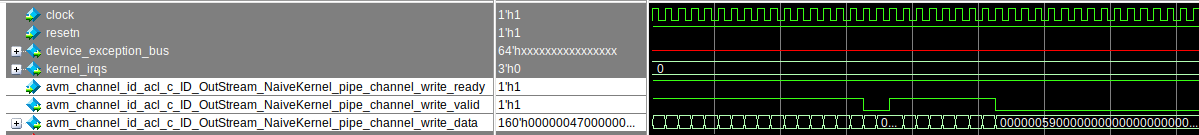
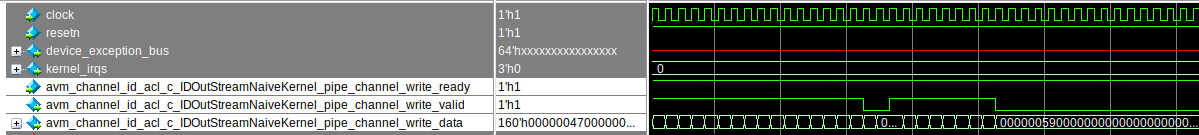
Resolve comments.

Changed region(s): [[0.1543, 0.8593, 0.4012, 0.9778], [0.1543, 0.5926, 0.4012, 0.7111], [0.1543, 0.7407, 0.4012, 0.8296]]

diff --git a/DirectProgramming/C++SYCL_FPGA/Tutorials/DesignPatterns/banked_memory_system/src/main.cpp b/DirectProgramming/C++SYCL_FPGA/Tutorials/DesignPatterns/banked_memory_system/src/main.cpp
@@ -5,18 +5,18 @@
 #include "memory_system_kernels.hpp"
 
 // Forward declaration of kernel names.
-class ID_NaiveKernel;
-class ID_OptimizedKernel;
+class IDNaiveKernel;
+class IDOptimizedKernel;
 
 // Function that verifies the output from example kernels.
 bool CheckOutput(sycl::queue &q) {
-  SimpleOutputT resultNaive;
-  SimpleOutputT resultOptimized;
+  SimpleOutputT result_naive;
+  SimpleOutputT result_optimized;
   bool passed = true;
   for (int i = 0; i < 500; ++i) {
-    resultNaive = OutStream_NaiveKernel::read(q);
-    resultOptimized = OutStream_OptKernel::read(q);
-    if (resultNaive[4] != i || resultOptimized[4] != i) {
+    result_naive = OutStreamNaiveKernel::read(q);
+    result_optimized = OutStreamOptKernel::read(q);
+    if (result_naive[4] != i || result_optimized[4] != i) {
       passed = false;
     }
   }
@@ -38,15 +38,15 @@ int main() {
     // Test for simple kernels.
     q.single_task<class Input>([=]() {
       for (int i = 0; i < 500; ++i) {
-        InStream_NaiveKernel::write(i);
-        InStream_OptKernel::write(i);
+        InStreamNaiveKernel::write(i);
+        InStreamOptKernel::write(i);
       }
     });
 
     std::cout << "Launch kernel" << std::endl;
 
-    q.single_task<ID_NaiveKernel>(NaiveKernel{});
-    q.single_task<ID_OptimizedKernel>(OptimizedKernel{});
+    q.single_task<IDNaiveKernel>(NaiveKernel{});
+    q.single_task<IDOptimizedKernel>(OptimizedKernel{});
 
     std::cout << "Checking output" << std::endl;
     bool passed = CheckOutput(q);
@@ -55,6 +55,7 @@ int main() {
       std::cout << "Verification PASSED.\n";
     } else {
       std::cout << "Verification FAILED.\n";
+      return 1;
     }
   }
   catch (sycl::exception const &e) {
@@ -62,4 +63,5 @@ int main() {
               << std::endl;
     std::terminate();
   }
+  return 0;
 }

diff --git a/DirectProgramming/C++SYCL_FPGA/Tutorials/DesignPatterns/banked_memory_system/src/memory_system_defines.hpp b/DirectProgramming/C++SYCL_FPGA/Tutorials/DesignPatterns/banked_memory_system/src/memory_system_defines.hpp
@@ -29,21 +29,21 @@ using PipePropertiesT = decltype(sycl::ext::oneapi::experimental::properties(
     sycl::ext::intel::experimental::first_symbol_in_high_order_bits<true>));
 
 // Interfaces for the illustrative simple kernels.
-class ID_InStream_NaiveKernel;
-using InStream_NaiveKernel =
-    sycl::ext::intel::experimental::pipe<ID_InStream_NaiveKernel, SimpleInputT, 0,
+class IDInStreamNaiveKernel;
+using InStreamNaiveKernel =
+    sycl::ext::intel::experimental::pipe<IDInStreamNaiveKernel, SimpleInputT, 0,
                                          PipePropertiesT>;
 
-class ID_OutStream_NaiveKernel;
-using OutStream_NaiveKernel =
-    sycl::ext::intel::experimental::pipe<ID_OutStream_NaiveKernel, SimpleOutputT, 0,
+class IDOutStreamNaiveKernel;
+using OutStreamNaiveKernel =
+    sycl::ext::intel::experimental::pipe<IDOutStreamNaiveKernel, SimpleOutputT, 0,
                                          PipePropertiesT>;
 
-class ID_InStream_OptKernel;
-using InStream_OptKernel =
-    sycl::ext::intel::experimental::pipe<ID_InStream_OptKernel, SimpleInputT, 0,
+class IDInStreamOptKernel;
+using InStreamOptKernel =
+    sycl::ext::intel::experimental::pipe<IDInStreamOptKernel, SimpleInputT, 0,
                                          PipePropertiesT>;
-class ID_OutStream_OptKernel;
-using OutStream_OptKernel =
-    sycl::ext::intel::experimental::pipe<ID_OutStream_OptKernel, SimpleOutputT, 0,
+class IDOutStreamOptKernel;
+using OutStreamOptKernel =
+    sycl::ext::intel::experimental::pipe<IDOutStreamOptKernel, SimpleOutputT, 0,
                                          PipePropertiesT>;

diff --git a/DirectProgramming/C++SYCL_FPGA/Tutorials/DesignPatterns/banked_memory_system/src/memory_system_kernels.hpp b/DirectProgramming/C++SYCL_FPGA/Tutorials/DesignPatterns/banked_memory_system/src/memory_system_kernels.hpp
@@ -9,7 +9,7 @@ struct NaiveKernel {
 
     [[intel::initiation_interval(1)]]
     for (int col = 0; col < kNumCols; ++col) {
-      SimpleInputT input = InStream_NaiveKernel::read();
+      SimpleInputT input = InStreamNaiveKernel::read();
       SimpleOutputT output;
 
       #pragma unroll
@@ -23,7 +23,7 @@ struct NaiveKernel {
         output[row] = array2d[row][col];
       }
       
-      OutStream_NaiveKernel::write(output);
+      OutStreamNaiveKernel::write(output);
     }
   }
 };
@@ -38,7 +38,7 @@ struct OptimizedKernel {
 
     [[intel::initiation_interval(1)]]
     for (int row = 0; row < kNumRowsOptimized; ++row) {
-      SimpleInputT input = InStream_OptKernel::read();
+      SimpleInputT input = InStreamOptKernel::read();
       SimpleOutputT output;
 
       #pragma unroll
@@ -52,7 +52,7 @@ struct OptimizedKernel {
         output[col] = array2d[row][col];
       }
       
-      OutStream_OptKernel::write(output);
+      OutStreamOptKernel::write(output);
     }
   }
 };

diff --git a/DirectProgramming/C++SYCL_FPGA/Tutorials/DesignPatterns/banked_memory_system/README.md b/DirectProgramming/C++SYCL_FPGA/Tutorials/DesignPatterns/banked_memory_system/README.md
@@ -64,7 +64,7 @@ struct NaiveKernel {
     int array2d[kNumRows][kNumCols];
     [[intel::initiation_interval(1)]]
     for (int col = 0; col < kNumCols; ++col) {
-      SimpleInputT input = InStream_NaiveKernel::read();
+      SimpleInputT input = InStreamNaiveKernel::read();
       SimpleOutputT output;
 
       // Shift one new item into the FIFO.
@@ -79,7 +79,7 @@ struct NaiveKernel {
       for (int row = 0; row < kNumRows; ++row) {
         output[row] = array2d[row][col];
       }
-      OutStream_NaiveKernel::write(output);
+      OutStreamNaiveKernel::write(output);
     }
   }
 };
@@ -93,7 +93,7 @@ The desired memory access pattern in `NaiveKernel` is illustrated in the followi
 
 ![Naive Kernel Memory Access Pattern](./assets/access_pattern_naive.gif)
 
-In the `NaiveKernel`, the first array dimension (row) is accessed in an unrolled loop. In this way, the kernel tries to access all five elements in one column of the buffer, namely `array2d[0][col]` to `array2d[4][col]`. As a result, there are 4 loads and 5 stores to the memory system in each loop iteration, and since the initiation interval is 1, they **should** happen in a single clock cycle. Note that though the second `row` loop, which prepares the output to the `OutStream_NaiveKernel` pipe, also performs loads on each bank, since the values to be loaded are already accessed in the previous loop, these loads are shared. The [kernel memory viewer report](https://www.intel.com/content/www/us/en/docs/oneapi-fpga-add-on/developer-guide/current/kernel-memory-viewer.html) shows that the memory system for `array2d` has 8 banks. This report shows the stallable load-store units (LSUs) that prevent the 4 loads and 5 stores from happening in a single clock cycle, and explains why the compiler decided to insert them.
+In the `NaiveKernel`, the first array dimension (row) is accessed in an unrolled loop. In this way, the kernel tries to access all five elements in one column of the buffer, namely `array2d[0][col]` to `array2d[4][col]`. As a result, there are 4 loads and 5 stores to the memory system in each loop iteration, and since the initiation interval is 1, they **should** happen in a single clock cycle. Note that though the second `row` loop, which prepares the output to the `OutStreamNaiveKernel` pipe, also performs loads on each bank, since the values to be loaded are already accessed in the previous loop, these loads are shared. The [kernel memory viewer report](https://www.intel.com/content/www/us/en/docs/oneapi-fpga-add-on/developer-guide/current/kernel-memory-viewer.html) shows that the memory system for `array2d` has 8 banks. This report shows the stallable load-store units (LSUs) that prevent the 4 loads and 5 stores from happening in a single clock cycle, and explains why the compiler decided to insert them.
 
 ![Stallable Arbitration Node](./assets/stallable_arbitration_node.png)
 
@@ -166,7 +166,7 @@ Review the memory access pattern above, we can easily find out that within each 
 
 ![Never-stall Node](./assets/memory_report_optimized.png)
 
-Subsequently, since we have made the LSU non-stallable, we expect no stalls in the loop nor in the downstream task - that the output pipe `OutStream_OptKernel` is not stalled. To verify this improvement, refer to the simulation waveform and observe the `valid` and `data` signal of the output pipe `ID_OutStream_OptKernel_pipe_channel_write`. The gaps no longer appear in the `valid` signal, and the pipe writes out data every clock cycle.
+Subsequently, since we have made the LSU non-stallable, we expect no stalls in the loop nor in the downstream task - that the output pipe `OutStreamOptKernel` is not stalled. To verify this improvement, refer to the simulation waveform and observe the `valid` and `data` signal of the output pipe `IDOutStreamOptKernel_pipe_channel_write`. The gaps no longer appear in the `valid` signal, and the pipe writes out data every clock cycle.
 
 ![Optimized System Waveform](./assets/waveform_optimized.png)
 
@@ -194,7 +194,7 @@ This design uses CMake to generate a build script for GNU/make.
 
 1. Change to the sample directory.
 
-2. Configure the build system for the Arria 10 device family, which is the default.
+2. Build the program for Intel® Agilex® 7 device family, which is the default.
 
    ```
    mkdir build
@@ -207,45 +207,84 @@ This design uses CMake to generate a build script for GNU/make.
    > cmake .. -DFPGA_DEVICE=<FPGA device family or FPGA part number>
    > ```
 
-3. Compile the design through the generated `Makefile`. The following build targets are provided, matching the recommended development flow:
+3. Compile the design. (The provided targets match the recommended development flow.)
 
-   | Compilation Type    | Command
-   |:---                 |:---
-   | FPGA Emulator       | `make fpga_emu`
-   | Optimization Report | `make report`
-   | FPGA Simulator      | `make fpga_sim`
-   | FPGA Hardware       | `nmake fpga`
+    1. Compile for emulation (fast compile time, targets emulated FPGA device):
+       ```
+       make fpga_emu
+       ```
+    2. Generate the optimization report:
+       ```
+       make report
+       ```
+      The report resides at `banked_mem.report.prj/reports/report.html`. See the [*Reading the Reports*](#reading-the-reports) section below to understand the report contents.
 
-### On a Windows* System
-This design uses CMake to generate a build script for  `nmake`.
+    3. Compile for simulation (fast compile time, targets simulated FPGA device, reduced data size):
+       ```
+       make fpga_sim
+       ```
+    4. Compile for FPGA hardware (longer compile time, targets FPGA device):
+       ```
+       make fpga
+       ```
+
+### On Windows*
 
 1. Change to the sample directory.
 
-2. Configure the build system for the Agilex® 7 device family, which is the default.
+2. Build the program for the Intel® Agilex® 7 device family, which is the default.
    ```
    mkdir build
    cd build
    cmake -G "NMake Makefiles" ..
    ```
-
    > **Note**: You can change the default target by using the command:
-   > ```
-   > cmake -G "NMake Makefiles" .. -DFPGA_DEVICE=<FPGA device family or FPGA part number>
-   > ```
+   >  ```
+   >  cmake -G "NMake Makefiles" .. -DFPGA_DEVICE=<FPGA device family or FPGA part number>
+   >  ```
+   >
+   > Alternatively, you can target an explicit FPGA board variant and BSP by using the following command:
+   >  ```
+   >  cmake -G "NMake Makefiles" .. -DFPGA_DEVICE=<board-support-package>:<board-variant>
+   >  ```
+  > **Note**: You can poll your system for available BSPs using the `aoc -list-boards` command. The board list that is printed out will be of the form
+  > ```
+  > $> aoc -list-boards
+  > Board list:
+  >   <board-variant>
+  >      Board Package: <path/to/board/package>/board-support-package
+  >   <board-variant2>
+  >      Board Package: <path/to/board/package>/board-support-package
+  > ```
+   >
+   > You will only be able to run an executable on the FPGA if you specified a BSP.
 
-3. Compile the design through the generated `Makefile`. The following build targets are provided, matching the recommended development flow:
+3. Compile the design. (The provided targets match the recommended development flow.)
 
-   | Compilation Type    | Command (Windows)
-   |:---                 |:---
-   | FPGA Emulator       | `nmake fpga_emu`
-   | Optimization Report | `nmake report`
-   | FPGA Simulator      | `nmake fpga_sim`
-   | FPGA Hardware       | `nmake fpga`
+   1. Compile for emulation (fast compile time, targets emulated FPGA device):
+      ```
+      nmake fpga_emu
+      ```
+   2. Generate the optimization report:
+      ```
+      nmake report
+      ```
+      The report resides at `banked_mem.report.prj.a/reports/report.html`. See the [*Reading the Reports*](#reading-the-reports) section below to understand the report contents.
 
-   > **Note**: If you encounter any issues with long paths when compiling under Windows*, you may have to create your 'build' directory in a shorter path, for example c:\samples\build.  You can then run cmake from that directory, and provide cmake with the full path to your sample directory, for example:
-      > ```
-      > cmake -G "NMake Makefiles" C:\long\path\to\code\sample\CMakeLists.txt
-      > ```
+   3. Compile for simulation (fast compile time, targets simulated FPGA device, reduced data size):
+      ```
+      nmake fpga_sim
+      ```
+   4. Compile for FPGA hardware (longer compile time, targets FPGA device):
+      ```
+      nmake fpga
+      ```
+
+> **Note**: If you encounter any issues with long paths when compiling under Windows*, you may have to create your 'build' directory in a shorter path, for example c:\samples\build.  You can then run cmake from that directory, and provide cmake with the full path to your sample directory, for example:
+>
+>  ```
+  > C:\samples\build> cmake -G "NMake Makefiles" C:\long\path\to\code\sample\CMakeLists.txt
+>  ```
 
 ## Run the `fpga_template` Executable
 
